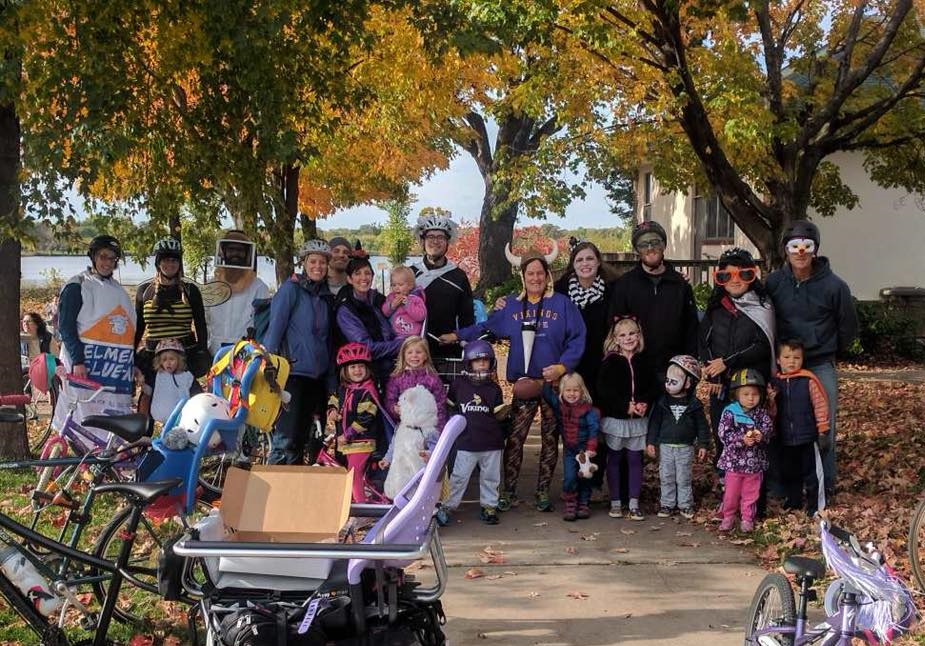
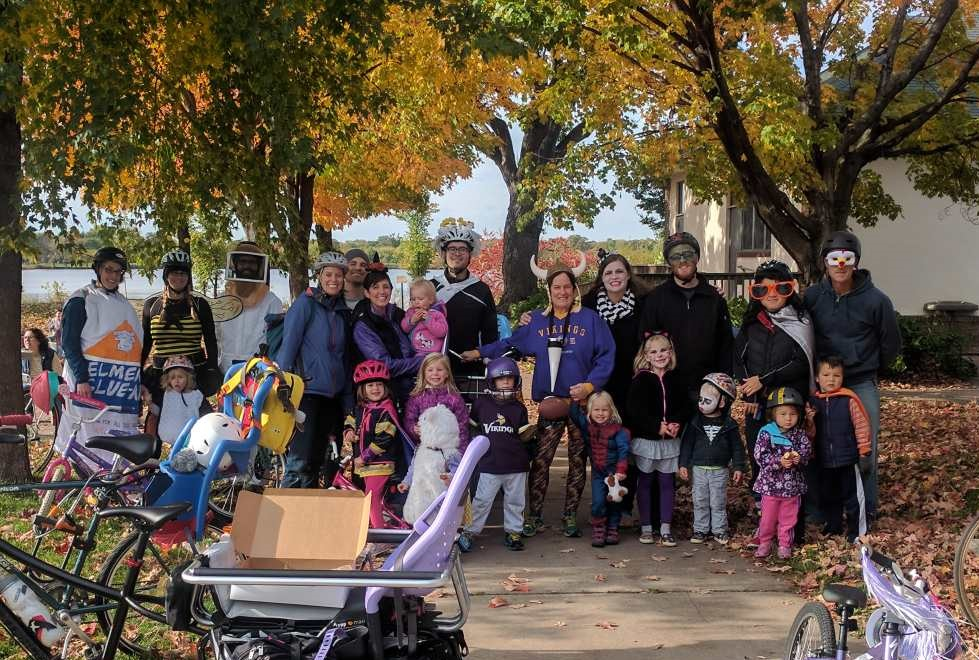
changed about page image and layout

diff --git a/_layouts/page.html b/_layouts/page.html
@@ -2,7 +2,7 @@
 layout: default
 ---
 <article {% if page.feature-img %}class="feature-image"{% endif %}>
-  <header style="background-image: url('{{ site.baseurl }}/{{ page.feature-img }}')">
+  <header style="background-position: center center; background-image: url('{{ site.baseurl }}/{{ page.feature-img }}')">
     <h1 class="title">{{ page.title }}</h1>
     {% if page.subtitle %}<h2 class="subtitle">{{ page.subtitle }}</h2>{% endif %}
   </header>

diff --git a/about.md b/about.md
@@ -2,7 +2,7 @@
 layout: page
 title: About
 permalink: /about/
-feature-img: "assets/img/sample_feature_img_2.png"
+feature-img: "assets/img/group_photo.jpg"
 ---
 
 Kidical Mass South Minneapolis organizes monthly family-oriented, kid-friendly group bike rides on second Saturdays at 10am, leaving from Lake Hiawatha Park.
